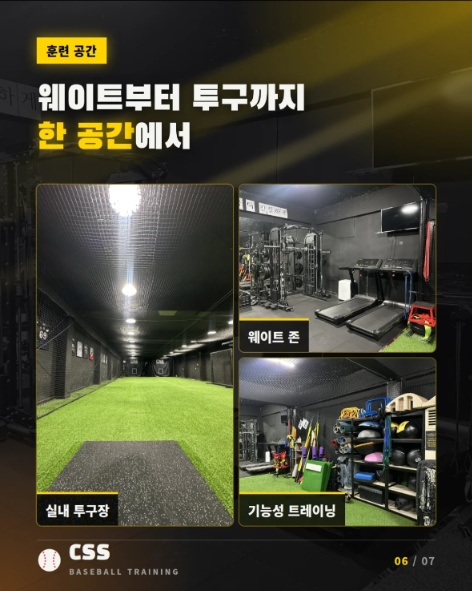
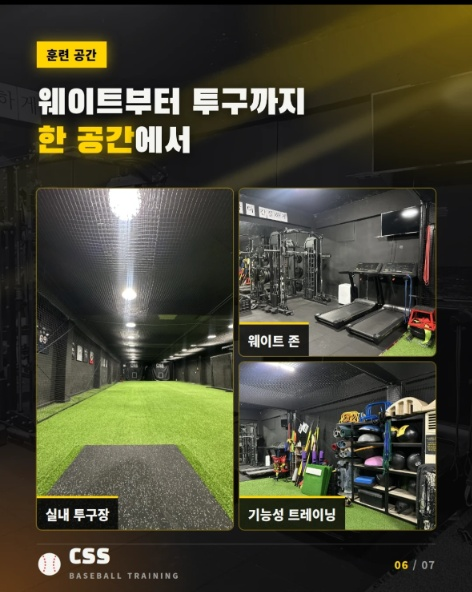
fix: CUT 06 원본 프로필 사진 복원 및 스크랩북 6호 센터 시설 사진 글씨 잘림 방지 (object-fit contain 적용)

diff --git a/cardnews/도봉리틀야구단_감성매거진_홍보영상_카드뉴스.html b/cardnews/도봉리틀야구단_감성매거진_홍보영상_카드뉴스.html
@@ -808,15 +808,19 @@
         </div>
       </div>
 
-      <div class="photo-stage-wrap" style="height: 185px; margin-bottom: 12px;">
+      <div class="photo-stage-wrap" style="height: 180px; margin-bottom: 12px;">
         <div class="washi-tape-top"></div>
         <div class="photo-polaroid-frame" style="background: #fff; border: 2px dashed #cbd5e1; padding: 10px 12px; display:flex; flex-direction:column; justify-content:space-between; align-items:stretch; width:100%;">
-          <!-- Center Facility Photo -->
-          <div style="width:100%; height: 125px; border-radius:6px; overflow:hidden; border:1px solid #e2e8f0; position:relative; background:#0f172a;">
-            <img src="../center_facility_3zones.jpg" alt="CSS 야구센터 시설 전경" style="width:100%; height:100%; object-fit:cover; object-position:center;">
-            <span style="position:absolute; bottom:4px; left:4px; background:rgba(0,0,0,0.85); color:#fff; font-size:10px; font-weight:800; padding:2px 6px; border-radius:4px;">
-              <i class="fa-solid fa-building"></i> CSS 야구센터 전경 (실내 투구장 · 웨이트 · 기능성 트레이닝)
-            </span>
+          <!-- Dual Profile Pictures: 조승수 대표 & 박인국 실장 -->
+          <div style="display:flex; gap:8px; height: 105px; width: 100%;">
+            <div style="flex:1; border-radius:6px; overflow:hidden; border:1px solid #e2e8f0; position:relative; background:#0f172a;">
+              <img src="../cho_seungsoo_real.jpg" alt="조승수 대표 투구" style="width:100%; height:100%; object-fit:cover; object-position:center top;">
+              <span style="position:absolute; bottom:2px; left:2px; background:rgba(0,0,0,0.85); color:#fff; font-size:10px; font-weight:800; padding:2px 5px; border-radius:3px;">조승수 대표 | 실전 투구</span>
+            </div>
+            <div style="flex:1; border-radius:6px; overflow:hidden; border:1px solid #e2e8f0; position:relative; background:#ffffff;">
+              <img src="../park_inguk_profile.jpg" alt="박인국 실장 케어" style="width:100%; height:100%; object-fit:contain; object-position:center top;">
+              <span style="position:absolute; bottom:2px; left:2px; background:rgba(0,0,0,0.85); color:#fff; font-size:10px; font-weight:800; padding:2px 5px; border-radius:3px;">박인국 실장 | 16년 임상</span>
+            </div>
           </div>
           <div style="width:100%; display:flex; justify-content:space-between; align-items:center; background:#f8fafc; border-radius:6px; padding:6px 10px; border:1px solid #e2e8f0; margin-top:6px;">
             <div>

diff --git a/cardnews/scrapbook_magazine_cardnews.html b/cardnews/scrapbook_magazine_cardnews.html
@@ -1466,15 +1466,11 @@
         </div>
 
         <div class="mag-content-split">
-          <div class="photo-tape-wrapper">
+          <div class="photo-tape-wrapper" style="width: 250px; height: 380px;">
             <div class="washi-tape-top"></div>
-            <div class="scrap-photo-frame" style="background:#fff; padding:6px; display:flex; flex-direction:column; justify-content:space-between; overflow:hidden;">
-              <div style="width:100%; height:100%; border-radius:6px; overflow:hidden; position:relative; background:#0f172a;">
-                <img src="../center_facility_3zones.jpg" alt="CSS 야구센터 훈련 공간 (실내 투구장, 웨이트 존, 기능성 트레이닝)" style="width:100%; height:100%; object-fit:cover; display:block;">
-                <div style="position:absolute; bottom:0; left:0; right:0; background:linear-gradient(transparent, rgba(15,23,42,0.92) 25%); padding:10px 8px 8px 8px; color:#fff; text-align:center;">
-                  <span style="font-size:11.5px; font-weight:900; color:#fde047;">⚾ 웨이트부터 투구·케어까지 원스톱</span>
-                  <div style="font-size:9.5px; color:#bfdbfe; font-weight:700; margin-top:2px;">실내 투구장 · 웨이트 존 · 기능성 트레이닝</div>
-                </div>
+            <div class="scrap-photo-frame" style="background:#0f172a; padding:6px; display:flex; flex-direction:column; justify-content:center; align-items:center; overflow:hidden; box-shadow: 3px 6px 16px rgba(0, 0, 0, 0.25);">
+              <div style="width:100%; height:100%; border-radius:4px; overflow:hidden; position:relative; background:#0b0f19; display:flex; align-items:center; justify-content:center;">
+                <img src="../center_facility_3zones.jpg" alt="CSS 야구센터 훈련 공간 (웨이트부터 투구까지 한 공간에서)" style="width:100%; height:100%; object-fit:contain; object-position:center; display:block;">
               </div>
             </div>
             <div class="washi-tape-bottom"></div>
